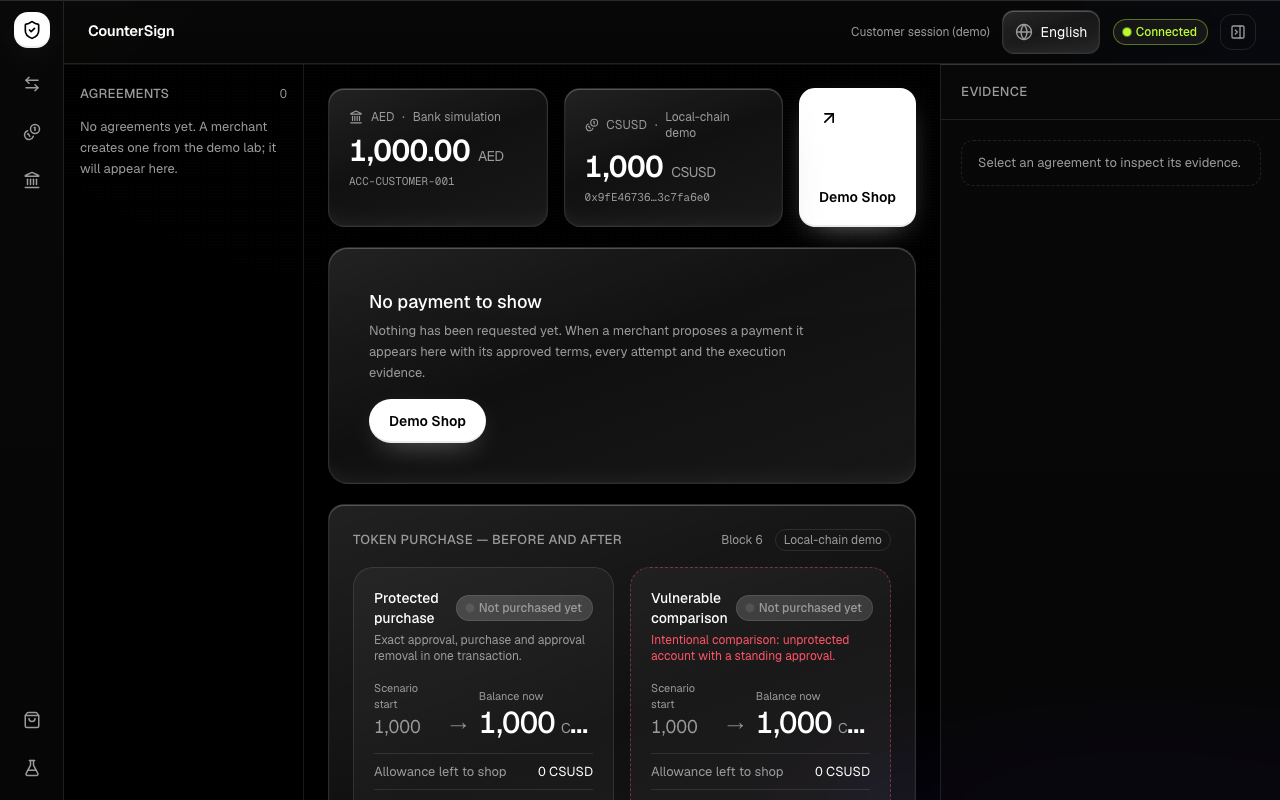
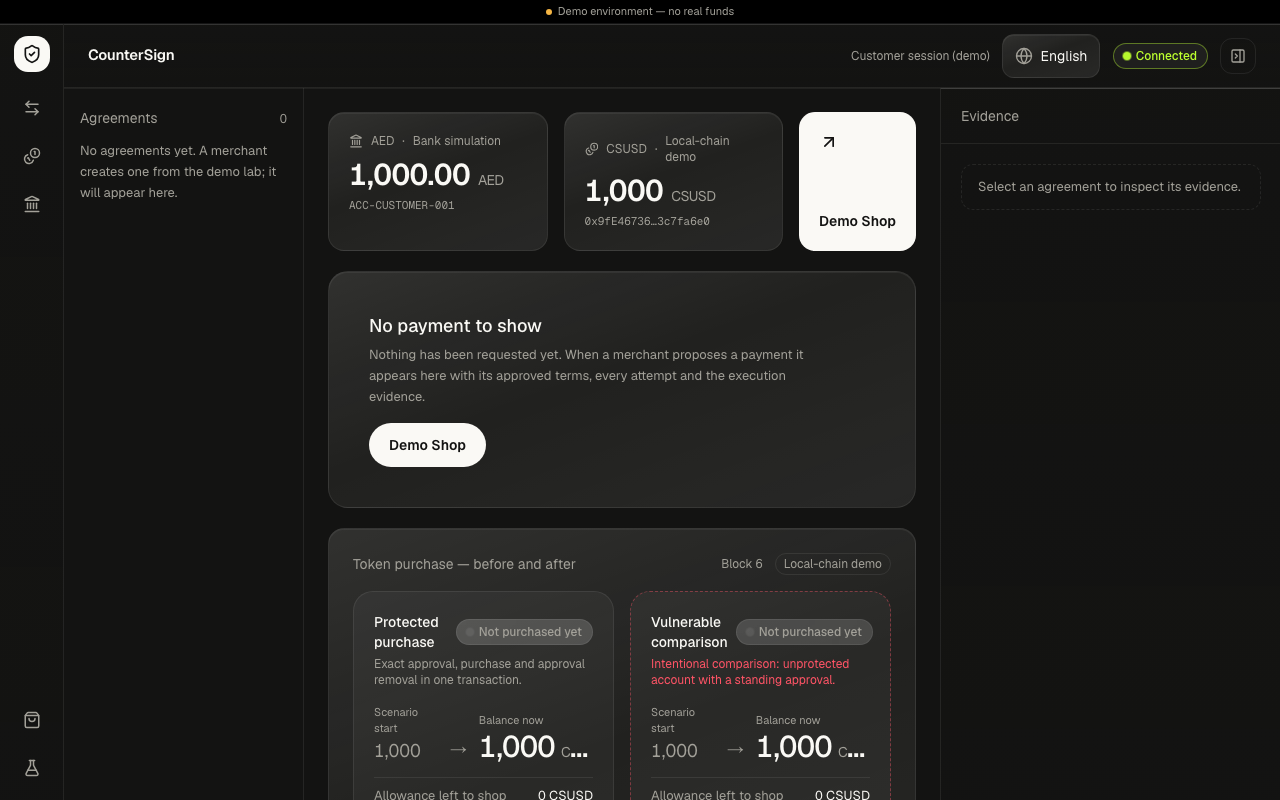
Apply Creative Director clean-up: serif headlines, flat warm palette, matte surfaces, less clutter

diff --git a/src/components/product/Entry.tsx b/src/components/product/Entry.tsx
@@ -5,10 +5,8 @@ import Link from "next/link";
 import { useTranslations } from "next-intl";
 import { AnimatePresence, MotionConfig, motion } from "motion/react";
 import { ArrowRight, Check, FlaskConical, ListChecks, ShieldCheck, ShoppingBag, Smartphone, X } from "lucide-react";
-import { api } from "@/lib/api";
-import { usePoll } from "@/lib/usePoll";
 import { cn } from "@/lib/cn";
-import { BANK_ACCOUNTS, type Overview } from "@/shared/contract";
+import { BANK_ACCOUNTS } from "@/shared/contract";
 import { LanguageSelector } from "@/components/i18n/LanguageSelector";
 
 type Field = "recipient" | "amount" | "permission" | "use";
@@ -50,7 +48,7 @@ function RuleDemo() {
   return (
     <section aria-labelledby="rule-title" className="rounded-[24px] border border-line bg-surface p-5 sm:p-6">
       <div className="flex flex-wrap items-baseline justify-between gap-2">
-        <h2 id="rule-title" className="text-[13px] font-medium tracking-wide text-muted uppercase">Try the rule</h2>
+        <h2 id="rule-title" className="text-sm text-muted">Try the rule</h2>
         <p className="text-xs text-muted">Illustration. The live rails are in Checkout and Lab.</p>
       </div>
       <div role="radiogroup" aria-label="Request sent to the rail" className="mt-4 flex flex-wrap gap-2">
@@ -94,24 +92,6 @@ function RuleDemo() {
   );
 }
 
-function LiveStrip() {
-  const tc = useTranslations("common");
-  const { data, connected } = usePoll<Overview>(api.state, 3000);
-  const dot = connected === true ? "bg-mint" : connected === false ? "bg-coral" : "bg-muted";
-  const conn = connected === true ? tc("connection.connected") : connected === false ? tc("connection.disconnected") : tc("connection.connecting");
-  const items = [
-    { k: tc("env.bank"), v: !data ? "…" : data.bank.available ? "Available" : "Unavailable" },
-    { k: tc("env.chain"), v: !data ? "…" : data.chain.available ? "Available" : "Unavailable" },
-    { k: "Payments on the server", v: !data ? "…" : String(data.agreements.length) },
-  ];
-  return (
-    <div className="flex flex-wrap items-center gap-x-6 gap-y-2 rounded-[16px] border border-line bg-surface px-4 py-3 text-xs text-muted">
-      <span role="status" aria-live="polite" className="flex items-center gap-2 text-fg"><span aria-hidden className={cn("size-1.5 rounded-full", dot)} />{conn}</span>
-      {items.map((i) => <span key={i.k}>{i.k}: <span className="tabular text-fg">{connected === false ? "not confirmed" : i.v}</span></span>)}
-    </div>
-  );
-}
-
 export function Entry() {
   const tc = useTranslations("common");
   const navLink = "rounded-full px-3 py-2 text-[13px] text-muted transition-colors duration-200 hover:bg-surface hover:text-fg";
@@ -137,8 +117,7 @@ export function Entry() {
       <main className="mx-auto flex w-full max-w-6xl flex-col gap-8 px-4 py-8 sm:px-6 sm:py-12">
         <section className="grid items-start gap-8 lg:grid-cols-[minmax(0,1fr)_minmax(0,1.05fr)]">
           <div>
-            <p className="text-xs tracking-widest text-muted uppercase">Payment approval infrastructure · hackathon prototype</p>
-            <h1 className="mt-3 text-4xl leading-[1.05] font-semibold tracking-tight sm:text-6xl"><span className="hero-amount">{tc("tagline")}</span></h1>
+            <h1 className="mt-3 text-5xl leading-[1.04] sm:text-[64px]"><span className="hero-amount">{tc("tagline")}</span></h1>
             <p className="mt-4 text-lg text-fg">This recipient. This amount. Once.</p>
             <p className="mt-3 max-w-xl text-[15px] leading-relaxed text-muted">
               You approve the facts of one payment on your phone. The rail executes exactly those facts and refuses any request that differs, with evidence either way.
@@ -147,23 +126,23 @@ export function Entry() {
               <Link href="/shop" className="btn-primary inline-flex h-12 items-center gap-2 rounded-full px-6 text-sm">Start a payment<ArrowRight aria-hidden className="size-4 rtl:rotate-180" /></Link>
               <Link href="/command" className="inline-flex h-12 items-center gap-2 rounded-full border border-line px-6 text-sm text-fg transition-colors duration-200 hover:bg-surface-2"><ListChecks aria-hidden className="size-4" />View payments</Link>
             </div>
-            <div className="mt-6"><LiveStrip /></div>
+            
           </div>
           <RuleDemo />
         </section>
 
         <section aria-labelledby="journey-title">
-          <h2 id="journey-title" className="text-[13px] font-medium tracking-wide text-muted uppercase">How one payment goes</h2>
+          <h2 id="journey-title" className="text-sm text-muted">How one payment goes</h2>
           <ol className="mt-4 grid gap-3 sm:grid-cols-2 lg:grid-cols-4">
             {STEPS.map((s) => {
               const inner = (<>
                 <span className="flex items-center justify-between">
                   <span className="tabular flex size-8 items-center justify-center rounded-full border border-line bg-white/10 text-xs text-fg">{s.n}</span>
-                  <s.icon aria-hidden className="size-5 text-muted transition-colors duration-200 group-hover:text-mint" />
+                  <s.icon aria-hidden className="size-5 text-muted transition-colors duration-200 group-hover:text-fg" />
                 </span>
                 <span className="mt-4 block text-[15px] font-medium text-fg">{s.title}</span>
                 <span className="mt-1.5 block text-[13px] leading-relaxed text-muted">{s.body}</span>
-                <span className={cn("mt-4 flex items-center gap-1.5 text-[13px]", s.href ? "text-mint" : "text-muted")}>{s.cta}{s.href && <ArrowRight aria-hidden className="size-3.5 transition-transform duration-200 group-hover:translate-x-0.5 rtl:rotate-180" />}</span>
+                <span className={cn("mt-4 flex items-center gap-1.5 text-[13px]", s.href ? "text-fg" : "text-muted")}>{s.cta}{s.href && <ArrowRight aria-hidden className="size-3.5 transition-transform duration-200 group-hover:translate-x-0.5 rtl:rotate-180" />}</span>
               </>);
               const cls = "group flex h-full flex-col rounded-[24px] border border-line bg-surface p-5 transition-transform duration-200";
               return <li key={s.n}>{s.href ? <Link href={s.href} className={cn(cls, "hover:-translate-y-0.5")}>{inner}</Link> : <div className={cls}>{inner}</div>}</li>;
@@ -172,7 +151,7 @@ export function Entry() {
         </section>
 
         <section aria-labelledby="who-title">
-          <h2 id="who-title" className="text-[13px] font-medium tracking-wide text-muted uppercase">Who gets what</h2>
+          <h2 id="who-title" className="text-sm text-muted">Who gets what</h2>
           <dl className="mt-4 grid gap-3 lg:grid-cols-3">
             {AUDIENCES.map((a) => (
               <div key={a.who} className="rounded-[24px] border border-line bg-surface p-5">

diff --git a/src/app/globals.css b/src/app/globals.css
@@ -2,12 +2,12 @@
 
 /* CounterSign design tokens — lead-owned. Use the Tailwind names (bg-bg, bg-surface, border-line, text-fg, text-muted, text-mint, text-amber, text-coral). */
 @theme inline {
-  --color-bg: #000000;
-  --color-surface: rgb(255 255 255 / 0.045);
-  --color-surface-2: rgb(255 255 255 / 0.085);
-  --color-line: rgb(255 255 255 / 0.10);
-  --color-fg: #FFFFFF;
-  --color-muted: #9B9B9B;
+  --color-bg: #131312;
+  --color-surface: rgb(255 255 255 / 0.04);
+  --color-surface-2: rgb(255 255 255 / 0.07);
+  --color-line: rgb(255 255 255 / 0.08);
+  --color-fg: #FAF9F5;
+  --color-muted: #A3A199;
   --color-mint: #BCFF2F;
   --color-amber: #F5B544;
   --color-coral: #FF5466;
@@ -18,7 +18,7 @@
   --radius-ctl: 14px;
 }
 
-html, body { background: #000; color: #fff; }
+html, body { background: #131312; color: #FAF9F5; }
 body { font-family: var(--font-sans); -webkit-font-smoothing: antialiased; }
 .tabular { font-variant-numeric: tabular-nums; }
 /* identifiers/hashes stay LTR and unbroken in RTL locales */
@@ -31,56 +31,34 @@ body { font-family: var(--font-sans); -webkit-font-smoothing: antialiased; }
 /* ---- Liquid glass ---- */
 body { position: relative; isolation: isolate; }
 /* ambient colour field the glass refracts */
-body::before {
-  content: ""; position: fixed; inset: -20%; z-index: -2; pointer-events: none;
-  background:
-    radial-gradient(42% 30% at 12% 0%, rgb(188 255 47 / 0.10), transparent 70%),
-    radial-gradient(36% 30% at 92% 4%, rgb(64 120 255 / 0.16), transparent 70%),
-    radial-gradient(40% 36% at 80% 100%, rgb(120 80 255 / 0.12), transparent 70%),
-    #000;
-  filter: saturate(125%);
-  animation: cs-drift 28s ease-in-out infinite alternate;
-}
-body::after {
-  content: ""; position: fixed; inset: 0; z-index: -1; pointer-events: none; opacity: 0.5;
-  background-image: radial-gradient(rgb(255 255 255 / 0.05) 1px, transparent 1px); background-size: 3px 3px;
-  mask-image: radial-gradient(120% 90% at 50% 0%, #000 30%, transparent 85%);
-}
-@keyframes cs-drift { from { transform: translate3d(-2%, -1%, 0) scale(1); } to { transform: translate3d(2%, 2%, 0) scale(1.06); } }
-
 /* every surface is a pane: blur + saturation, specular top edge, soft depth */
 .bg-surface, .bg-surface-2, .glass {
   -webkit-backdrop-filter: blur(28px) saturate(180%); backdrop-filter: blur(28px) saturate(180%);
-  box-shadow:
-    inset 0 1px 0 rgb(255 255 255 / 0.22),
-    inset 0 0 0 0.5px rgb(255 255 255 / 0.06),
-    inset 0 -18px 28px -22px rgb(255 255 255 / 0.10),
-    0 24px 60px -32px rgb(0 0 0 / 0.75);
+  box-shadow: inset 0 1px 0 rgb(255 255 255 / 0.06);
 }
-.bg-surface { background-image: linear-gradient(160deg, rgb(255 255 255 / 0.09), rgb(255 255 255 / 0.02) 45%, rgb(255 255 255 / 0.05)); }
+.bg-surface { background-image: none; }
 .bg-surface-2 { background-image: linear-gradient(160deg, rgb(255 255 255 / 0.16), rgb(255 255 255 / 0.05) 50%, rgb(255 255 255 / 0.09)); }
 /* chrome (top bar, docks) : denser glass */
 .glass-bar {
-  background: linear-gradient(180deg, rgb(10 10 10 / 0.78), rgb(10 10 10 / 0.6));
+  background: linear-gradient(180deg, rgb(19 19 18 / 0.86), rgb(19 19 18 / 0.72));
   -webkit-backdrop-filter: blur(32px) saturate(190%); backdrop-filter: blur(32px) saturate(190%);
   box-shadow: inset 0 1px 0 rgb(255 255 255 / 0.14), 0 1px 0 rgb(255 255 255 / 0.06);
 }
 /* primary action: lit glass capsule */
 .btn-primary {
-  color: #000; font-weight: 600; background: #fff;
-  box-shadow: inset 0 -2px 0 rgb(0 0 0 / 0.08), 0 10px 30px -14px rgb(255 255 255 / 0.55);
+  color: #131312; font-weight: 600; background: #FAF9F5;
+  box-shadow: none;
   transition: transform .18s ease, box-shadow .18s ease, filter .18s ease, background-color .18s ease;
 }
-.btn-primary:hover:not(:disabled) { background: #BCFF2F; transform: translateY(-1px); box-shadow: 0 12px 34px -12px rgb(188 255 47 / 0.6); }
+.btn-primary:hover:not(:disabled) { background: #E8E6DC; transform: translateY(-1px); }
 .btn-primary:active:not(:disabled) { transform: scale(0.985); }
 .btn-primary:disabled { filter: saturate(0.3) brightness(0.7); box-shadow: none; }
-.hero-amount { background: linear-gradient(180deg, #FFFFFF 30%, #B9B9B9 100%); -webkit-background-clip: text; background-clip: text; color: transparent; }
+.hero-amount { color: inherit; }
 .glow-mint { box-shadow: inset 0 1px 0 rgb(255 255 255 / 0.22), 0 0 0 1px rgb(188 255 47 / 0.35), 0 20px 60px -24px rgb(188 255 47 / 0.55); }
 .glow-coral { box-shadow: inset 0 1px 0 rgb(255 255 255 / 0.22), 0 0 0 1px rgb(255 84 102 / 0.4), 0 20px 60px -24px rgb(255 84 102 / 0.5); }
 .glow-amber { box-shadow: inset 0 1px 0 rgb(255 255 255 / 0.22), 0 0 0 1px rgb(245 181 68 / 0.35), 0 20px 60px -24px rgb(245 181 68 / 0.45); }
 input, select { background-color: rgb(255 255 255 / 0.05) !important; }
-::selection { background: rgb(142 155 255 / 0.4); }
-@media (prefers-reduced-motion: reduce) { body::before { animation: none; } }
+::selection { background: rgb(250 249 245 / 0.22); }
 @media (prefers-reduced-transparency: reduce) {
   .bg-surface, .bg-surface-2, .glass, .glass-bar { -webkit-backdrop-filter: none; backdrop-filter: none; background-color: #121212; }
 }
@@ -115,3 +93,5 @@ button:active:not(:disabled) { transform: scale(0.975); }
 @keyframes cs-stop { 0%,100% { translate: 0; } 15% { translate: -8px; } 30% { translate: 7px; } 45% { translate: -5px; } 60% { translate: 3px; } 80% { translate: -1px; } }
 .cs-stop { animation: cs-stop .42s cubic-bezier(.36,.07,.19,.97) 1; }
 @media (prefers-reduced-motion: reduce) { .cs-stop, .flow-dot { animation: none; } }
+/* Display serif for headlines; amounts and identifiers stay in the sans/mono faces. */
+@layer base { h1 { font-family: var(--font-display-serif), var(--font-sans); font-weight: 500; letter-spacing: -0.015em; } }

diff --git a/src/app/shop/page.tsx b/src/app/shop/page.tsx
@@ -54,10 +54,10 @@ export default function ShopPage() {
   return (
     <main className="mx-auto grid min-h-[calc(100dvh-1.5rem)] w-full max-w-5xl content-center items-stretch gap-6 px-6 py-10 md:grid-cols-[1.1fr_0.9fr]">
       <section className="tilt rounded-[20px] border border-line bg-surface p-8">
-        <p className="flex items-center gap-2 text-xs tracking-widest text-muted uppercase"><ShoppingBag aria-hidden className="size-4" />Demo Shop · merchant checkout fixture</p>
-        <h1 className="mt-6 text-4xl font-semibold tracking-tight">Annual membership</h1>
+        <p className="flex items-center gap-2 text-sm text-muted"><ShoppingBag aria-hidden className="size-4" />Demo Shop</p>
+        <h1 className="mt-6 text-[44px] leading-[1.08]">Annual membership</h1>
         <p className="mt-2 max-w-md text-sm leading-relaxed text-muted">One payment of {rail === "bank" ? "exactly" : "at most"} {price}. You approve the recipient and the amount on your phone; the shop cannot change the recipient, take more than that, or charge twice.</p>
-        <p className="ticker mt-8 text-6xl font-semibold"><span className="hero-amount">{rail === "bank" ? "100.00" : "100"}</span><span className="ms-2 text-xl font-normal text-muted">{rail === "bank" ? "AED" : "CSUSD"}</span></p>
+        <p className="ticker mt-8 text-5xl font-medium"><span className="hero-amount">{rail === "bank" ? "100.00" : "100"}</span><span className="ms-2 text-xl font-normal text-muted">{rail === "bank" ? "AED" : "CSUSD"}</span></p>
         <div className="seg mt-8" role="group" aria-label="Payment method">
           <button type="button" aria-pressed={rail === "bank"} disabled={!!id} onClick={() => setRail("bank")}>Bank transfer</button>
           <button type="button" aria-pressed={rail === "crypto"} disabled={!!id || !chainUp} onClick={() => setRail("crypto")}>CSUSD token</button>
@@ -71,13 +71,13 @@ export default function ShopPage() {
           ) : (
             <button type="button" onClick={() => { setId(null); setError(null); }} className="inline-flex h-12 items-center rounded-full border border-line bg-white/5 px-6 text-sm">New order</button>
           )}
-          <span className="text-xs text-muted">Bank simulation · Local-chain demo</span>
+          
         </div>
         {error && <p role="alert" className="mt-4 text-sm text-coral">{error}</p>}
       </section>
 
       <section className="rounded-[20px] border border-line bg-surface p-8" aria-live="polite">
-        <h2 className="text-xs tracking-widest text-muted uppercase">Order status</h2>
+        <h2 className="text-sm text-muted">Order status</h2>
         {!id && <p className="mt-6 text-sm leading-relaxed text-muted">Nothing ordered yet. Choose a payment method and press Pay with CounterSign.</p>}
         {id && (
           <>

diff --git a/src/components/desktop/CommandCenter.tsx b/src/components/desktop/CommandCenter.tsx
@@ -110,8 +110,8 @@ export function CommandCenter() {
       <div className="flex min-w-0 flex-1 flex-col">
         <header className="glass-bar relative z-20 flex h-16 shrink-0 items-center gap-4 border-b border-line px-6">
           <div className="flex min-w-0 items-baseline gap-3">
-            <h1 className="text-[15px] font-semibold tracking-tight">{tc("brand")}</h1>
-            <p className="hidden truncate text-[13px] text-muted min-[1360px]:block">{tc("tagline")}</p>
+            <h1 className="font-sans text-[15px] font-semibold tracking-tight">{tc("brand")}</h1>
+            
           </div>
           <div className="ms-auto flex shrink-0 items-center gap-3">
             {!fixture && caps && !caps.customer && <SignIn onDone={() => setCapsTick((n) => n + 1)} />}
@@ -157,7 +157,7 @@ export function CommandCenter() {
                           <span>{tc(`rail.${view.agreement.rail}`)}</span><span aria-hidden>·</span>
                           <span>{tc(`env.${view.agreement.rail === "bank" ? "bank" : "chain"}`)}</span>
                         </p>
-                        <p className="tabular mt-1 text-6xl font-semibold tracking-tight"><span className="hero-amount">{fmtAmount(view.agreement.amount, view.agreement.asset.decimals)}</span>
+                        <p className="tabular mt-1 text-6xl font-medium tracking-tight"><span className="hero-amount">{fmtAmount(view.agreement.amount, view.agreement.asset.decimals)}</span>
                           <span className="ms-2 text-xl font-normal text-muted">{view.agreement.asset.code}</span></p>
                         <p className="mt-2 truncate text-[13px] text-muted">
                           {t("hero.to")} <span className="text-fg">{view.agreement.recipientDisplayName}</span>{" "}

diff --git a/src/app/layout.tsx b/src/app/layout.tsx
@@ -1,10 +1,11 @@
 import type { Metadata, Viewport } from "next";
-import { Geist, Geist_Mono } from "next/font/google";
+import { Geist, Geist_Mono, Source_Serif_4 } from "next/font/google";
 import "./globals.css";
 import { GlassPointer } from "@/components/fx/GlassPointer";
 import { I18nProvider } from "@/i18n/provider";
 
 const geistSans = Geist({ variable: "--font-geist-sans", subsets: ["latin", "cyrillic"] });
+const displaySerif = Source_Serif_4({ variable: "--font-display-serif", subsets: ["latin", "cyrillic"] });
 const geistMono = Geist_Mono({ variable: "--font-geist-mono", subsets: ["latin"] });
 
 export const metadata: Metadata = {
@@ -16,7 +17,7 @@ export const viewport: Viewport = { themeColor: "#000000", width: "device-width"
 
 export default function RootLayout({ children }: { children: React.ReactNode }) {
   return (
-    <html lang="en" dir="ltr" className={`${geistSans.variable} ${geistMono.variable} h-full antialiased`}>
+    <html lang="en" dir="ltr" className={`${geistSans.variable} ${displaySerif.variable} ${geistMono.variable} h-full antialiased`}>
       <body className="min-h-full flex flex-col text-fg">
         <GlassPointer /><p data-testid="demo-indicator" className="flex h-6 shrink-0 items-center justify-center gap-1.5 border-b border-line bg-black text-[11px] text-muted">
           <span aria-hidden className="size-1.5 rounded-full bg-amber" />Demo environment — no real funds

diff --git a/src/components/mobile/ApproveScreen.tsx b/src/components/mobile/ApproveScreen.tsx
@@ -158,7 +158,7 @@ export function ApproveScreen({ id }: { id: string }) {
         {!view && !offline && (notFound || loadError) && (
           <section role="alert" className="rounded-2xl border border-line bg-surface p-5" data-testid={notFound ? "not-found" : "load-error"}>
             <CircleAlert aria-hidden className="size-6 text-coral" />
-            <h1 className="mt-3 text-lg font-semibold">{t(notFound ? "notFound.title" : "loadError.title")}</h1>
+            <h1 className="font-sans mt-3 text-lg font-semibold">{t(notFound ? "notFound.title" : "loadError.title")}</h1>
             <p className="mt-1 text-sm text-muted">{t(notFound ? "notFound.body" : "loadError.body")}</p>
             <p className="ident mt-3 text-xs text-muted">{id}</p>
           </section>

diff --git a/src/components/desktop/EvidenceInspector.tsx b/src/components/desktop/EvidenceInspector.tsx
@@ -30,7 +30,7 @@ export function EvidenceInspector({ view, evidence, stage, onStage }:
   return (
     <div className="flex h-full min-h-0 w-[340px] flex-col">
       <div className="flex h-14 shrink-0 items-center justify-between border-b border-line px-5">
-        <h2 className="text-[13px] font-medium tracking-wide text-muted uppercase">{t("inspector.title")}</h2>
+        <h2 className="text-sm text-muted">{t("inspector.title")}</h2>
       </div>
       {!view || !a ? <div className="p-5"><Notice>{t("inspector.empty")}</Notice></div> : (<>
         <div role="tablist" aria-label={t("inspector.title")} className="flex shrink-0 gap-1 border-b border-line p-2">

diff --git a/src/components/mobile/PaymentCard.tsx b/src/components/mobile/PaymentCard.tsx
@@ -31,7 +31,7 @@ export function PaymentCard({ view, remainingMs, envLabel }: { view: AgreementVi
   const expiryAt = format.dateTime(new Date(a.expiry * 1000), { hour: "2-digit", minute: "2-digit", second: "2-digit" });
 
   return (
-    <section className="tilt rounded-[20px] border border-line bg-surface p-5" data-testid="payment-card">
+    <section className="rounded-[20px] border border-line bg-surface p-5" data-testid="payment-card">
       <div className="flex items-start justify-between gap-3">
         <div className="min-w-0">
           <p className="text-xs text-muted">{t("card.payTo")}</p>

diff --git a/src/components/desktop/AgreementList.tsx b/src/components/desktop/AgreementList.tsx
@@ -12,7 +12,7 @@ export function AgreementList({ agreements, selectedId, onSelect }:
   return (
     <nav aria-label={t("list.title")} className="flex min-h-0 flex-col">
       <div className="flex items-baseline justify-between px-4 pt-5 pb-3">
-        <h2 className="text-[13px] font-medium tracking-wide text-muted uppercase">{t("list.title")}</h2>
+        <h2 className="text-sm text-muted">{t("list.title")}</h2>
         <span className="tabular text-xs text-muted">{agreements.length}</span>
       </div>
       {agreements.length === 0 ? (

diff --git a/src/components/desktop/ui.tsx b/src/components/desktop/ui.tsx
@@ -31,7 +31,7 @@ export function Panel({ id, title, aside, children, className }:
   return (
     <section id={id} className={cn("rounded-[16px] border border-line bg-surface p-6", className)}>
       <header className="mb-4 flex items-center justify-between gap-3">
-        <h2 className="text-[13px] font-medium tracking-wide text-muted uppercase">{title}</h2>
+        <h2 className="text-sm text-muted">{title}</h2>
         {aside}
       </header>
       {children}
